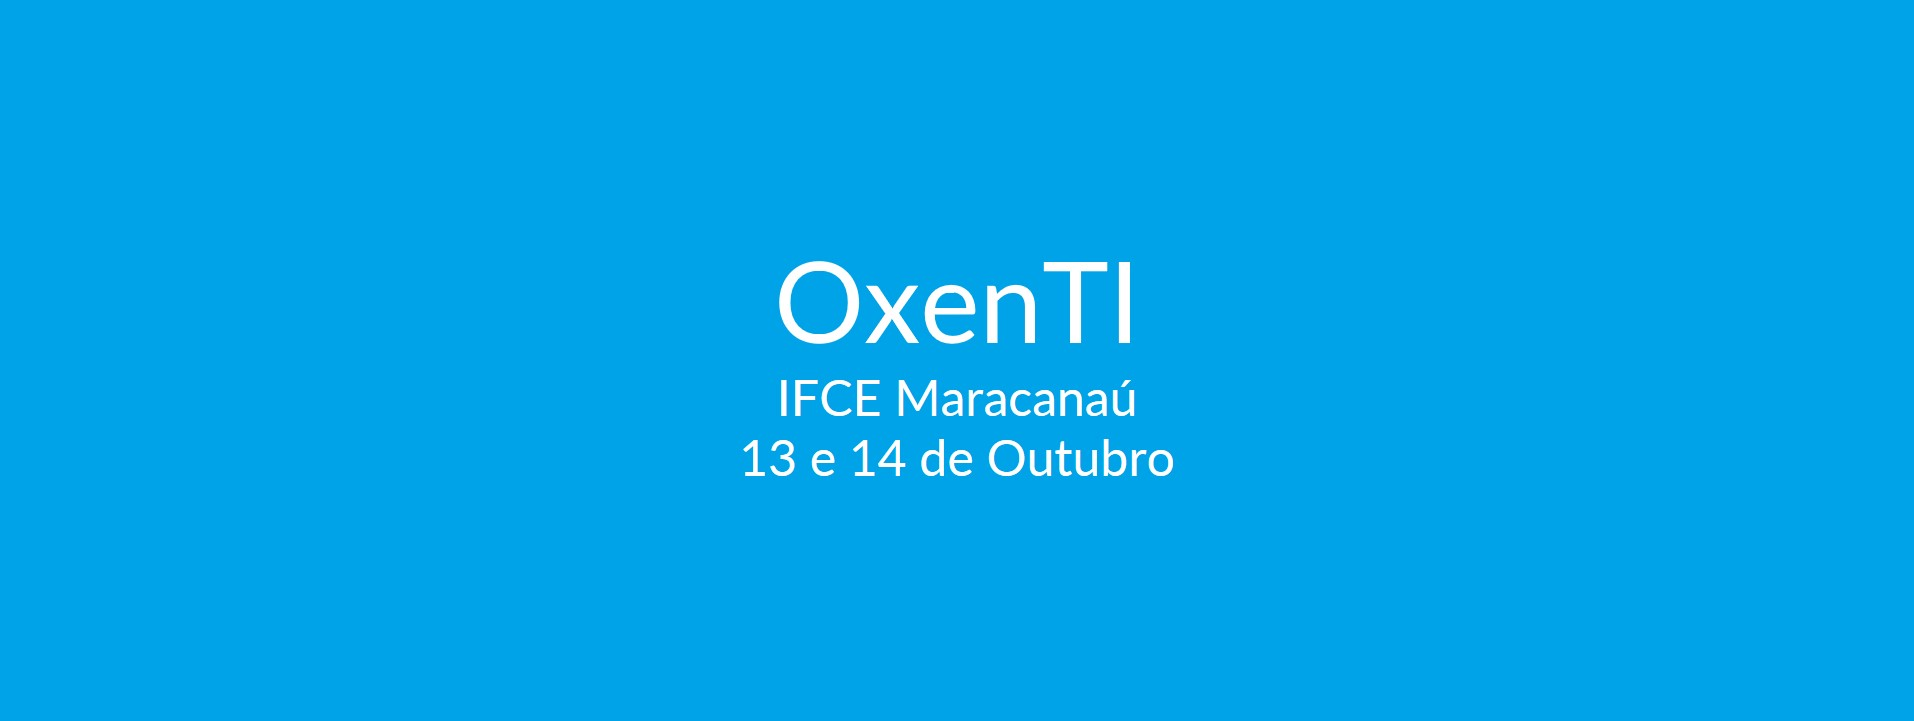
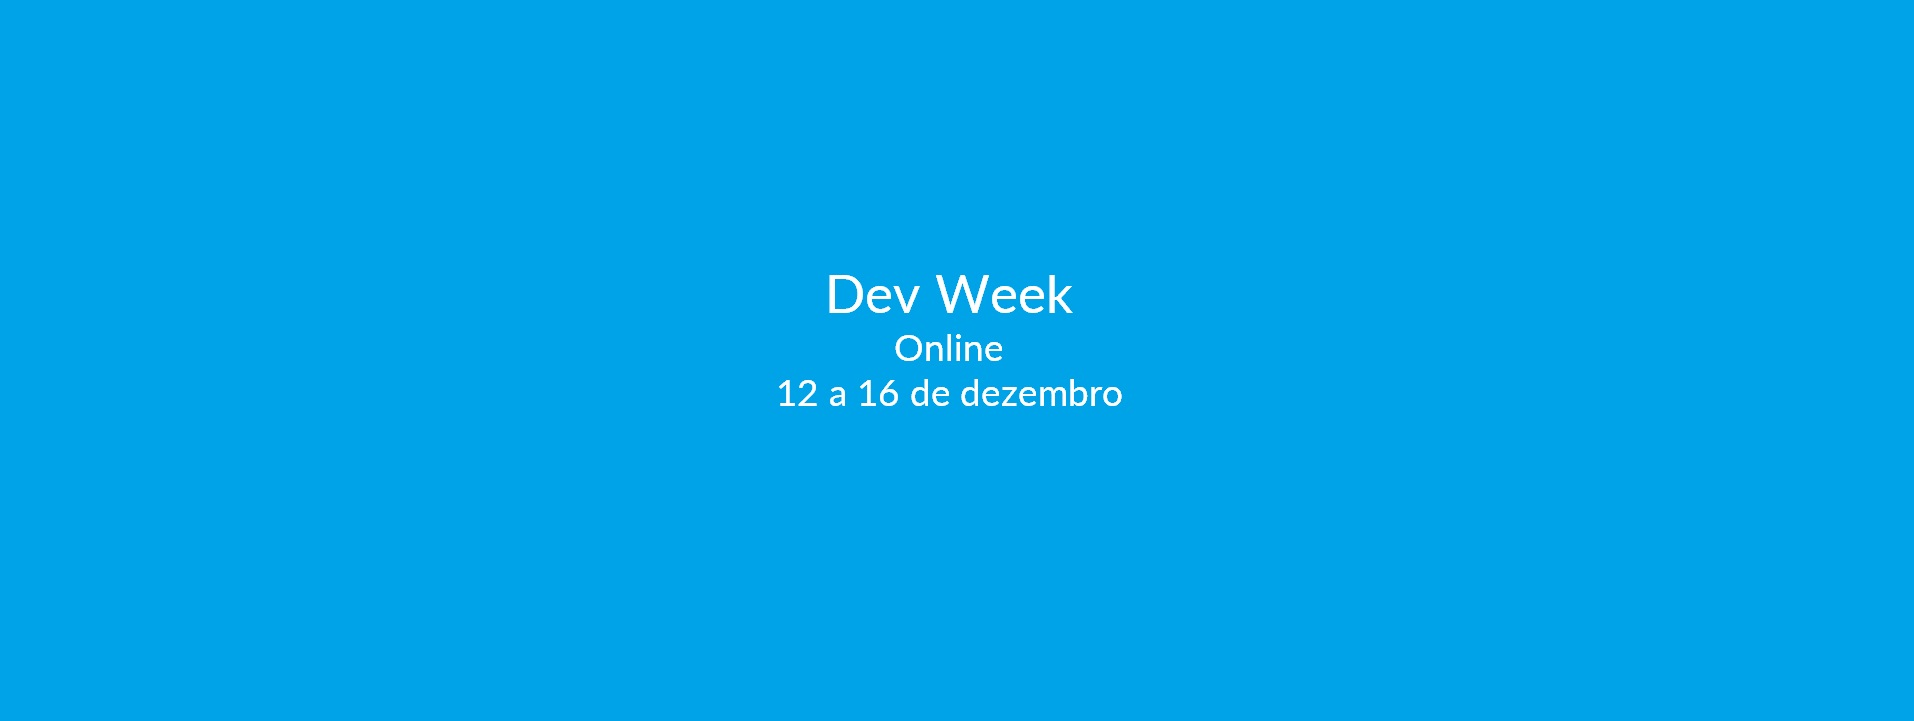
Primeiro commit

Changed region(s): [[0.4007, 0.3356, 0.6165, 0.5798], [0.3699, 0.6103, 0.6165, 0.6713]]

diff --git a/index.html b/index.html
@@ -5,25 +5,25 @@
     <meta http-equiv="Content-Type" content="text/html; charset=UTF-8" />
     <meta name="viewport" content="width=device-width, initial-scale=1, maximum-scale=1.0, user-scalable=no" />
     <meta name="theme-color" content="#039be5">
-    <title>OxenTI | 13 e 14 de Outubro</title>
+    <title>Dev Week | 12 e 16 de Dezembro</title>
 
     <meta name="copyright" content="© 2016 Canal .NET" />
     <meta name="author" content="Canal .NET - https://www.facebook.com/canaldotnet/" />
     <meta name="robots" content="index, follow" />
     <meta name="keywords" content="app development, mobile app development, xamarin, ios, android, cloud, nuvem, azure, microsoft, devops, infra, dev, open source, linux, mono, csharp, C#"
     />
-    <meta name="description" content="OxenTI | 13 e 14 de Outubro">
+    <meta name="description" content="Dev Week | 12 e 16 de Dezembro">
     <meta name="format-detection" content="telephone=no" />
 
     <!-- Favicon -->
     <link rel="shortcut icon" href="img/favicon.png" type="image/png" />
 
     <meta property="og:title" content="OxenTI | 13 e 14 de Outubro" />
-    <meta property="og:image" content="http://oxenti.azurewebsites.net/img/fundo.jpg">
+    <meta property="og:image" content="http://devweek.azurewebsites.net/img/fundo.jpg">
     <meta property="og:image:type" content="image/jpeg">
     <meta property="og:image:width" content="800"> 
     <meta property="og:image:height" content="600">
-    <meta property="og:description" content="OxenTI | 13 e 14 de Outubro" />
+    <meta property="og:description" content="Dev Week | 12 e 16 de Dezembro" />
 
 
     <!-- CSS  -->
@@ -53,15 +53,15 @@
                     <a href="# " id="logo-container "></a>
                     <ul class="right hide-on-med-and-down ">
                         <li><a href="#sobre">sobre</a></li>
-                        <li><a href="https://www.eventbrite.com.br/e/oxenti-ifce-maracanau-tickets-27894629588" target="_blank">inscrições</a></li>
+                        <li><a href="https://www.facebook.com/events/1138328316203524/" target="_blank">inscrições</a></li>
                         <li><a href="#agenda">agenda</a></li>
-                        <li><a href="#organizacao">organização</a></li>
+                        <li><a href="#palestrantes">palestrantes</a></li>
                     </ul>
                     <ul id="nav-mobile " class="side-nav ">
                             <li><a href="#sobre">sobre</a></li>
-                            <li><a href="https://www.eventbrite.com.br/e/oxenti-ifce-maracanau-tickets-27894629588" target="_blank">inscrições</a></li>
+                            <li><a href="https://www.facebook.com/events/1138328316203524/" target="_blank">inscrições</a></li>
                             <li><a href="#agenda">agenda</a></li>
-                            <li><a href="#organizacao">organização</a></li>
+                            <li><a href="#palestrantes">palestrantes</a></li>
                     </ul>
                     <a href="# " data-activates="nav-mobile " class="button-collapse "><i class="mdi-navigation-menu "></i></a>
                 </div>
@@ -71,16 +71,16 @@
     <!--Hero-->
     <div class="section no-pad-bot blue darken-2" id="index-banner">
         <div class="container center ">
-            <h2 class="text_h_top center">OxenTI <small>IFCE Maracanaú</small></h2>
+            <h2 class="text_h_top center">Dev Week <small>Online</small></h2>
             <h1 class="text_h center header cd-headline ">
-            <span>Um evento GRATUITO para aprender mais sobre tecnologia.</span> 
+            <span>Um evento GRATUITO e online sobre desenvolvimento de software.</span> 
         </h1>
-            <h2 class="text_h_sub center ">Dias 13 e 14 de Outubro / 2016</h2>
-            <a class="waves-effect waves-light btn-large green light-1 " href="https://www.eventbrite.com.br/e/oxenti-ifce-maracanau-tickets-27894629588" target="_blank ">quero participar!</a>
+            <h2 class="text_h_sub center ">De 12 e 16 de Dezembro / 2016. Das 20h às 23h.</h2>
+            <a class="waves-effect waves-light btn-large green light-1 " href="https://www.facebook.com/events/1138328316203524/" target="_blank ">quero assistir!</a>
         </div>
 
         <div class="fixed-action-btn" style="bottom: 45px; right: 24px;">
-          <a class="btn-floating btn-large green  tooltipped" data-position="left" data-delay="20" data-tooltip="Quero me inscrever!" href="https://www.eventbrite.com.br/e/oxenti-ifce-maracanau-tickets-27894629588" target="_blank">
+          <a class="btn-floating btn-large green  tooltipped" data-position="left" data-delay="20" data-tooltip="Quero me inscrever!" href="https://www.facebook.com/events/1138328316203524/" target="_blank">
             <i class="material-icons">done</i>
           </a>
         </div>
@@ -91,10 +91,10 @@
             <div class="row ">
                 <div class="col s12 ">
                     <h2 class="center header text_h2 "> 
-                    Você é estudante, profissional ou interessado em tecnologia da informação? Então junte-se a nós e venha aprender mais sobre desenvolvimento web, mobile, computação em nuvem e muito mais.
+                    Você é estudante, profissional ou interessado em desenvolvimento de software? Então junte-se a nós e venha aprender mais sobre desenvolvimento web, mobile, computação em nuvem e muito mais.
                     </h2>
                     <h2 class="center header text_h2 "> 
-                    O OxenTI é um evento <span class="span_h2 blue-text text-blue-2">gratuito</span>, organizado por estudantes e profissionais da área, com o apoio do IFCE Maracanaú.
+                    O Dev Week é um evento <span class="span_h2 blue-text text-blue-2">gratuito</span> e <span class="span_h2 blue-text text-blue-2">online</span>, promovido pelo <span class="span_h2 blue-text text-blue-2">Canal .NET</span> com o apoio de parceiros membros da comunidade técnica.
                     </h2> 
                 </div>
                 <div class="row ">
@@ -102,7 +102,7 @@
                         <div class="center promo promo-example ">
                             <i class="fa fa-users blue-text text-blue-2"></i>
                             <h5 class="promo-caption ">Público Alvo</h5>
-                            <p class="light center ">Estudantes, profissionais e demais interessados em tecnologia da informação.</p>
+                            <p class="light center ">Estudantes e profissionais interessados em desenvolvimento de software.</p>
                         </div>
                     </div>
                     <div class="col s12 m4 l4 ">
@@ -116,7 +116,7 @@
                         <div class="center promo promo-example ">
                             <i class="fa fa-map-marker blue-text text-blue-2"></i>
                             <h5 class="promo-caption ">Local</h5>
-                            <p class="light center ">IFCE Maracanaú.Parque Central. Distrito Industrial I. Maracanaú, CE. 61939140 </p>
+                            <p class="light center ">Totalmente online com transmissão pelo YouTube. </p>
                         </div>
                     </div>
                 </div>
@@ -126,240 +126,28 @@
         <div class="section scrollspy white " id="agenda">
             <div class="container ">
                 <h2 class="header text_b grey-text text-darken-4 "> Agenda</h2>
-                <div class="row">
-                    <div class="col s12 m12">
-                        <h4>quinta-feira / 13 de outubro de 2016</h4>
-                        <ul class="tabs">
-                            <li class="tab col s3"><a class="active" href="#lab1_13">Laboratório 1</a></li>
-                            <li class="tab col s3"><a href="#midias_13">Mídias</a></li>
-                            <li class="tab col s3"><a href="#sala1_13">Sala 1</a></li>
-                            <li class="tab col s3"><a href="#sala2_13">Sala 2</a></li>
-                        </ul>
-                        <div id="lab1_13" class="col s12">
-                            <ul class="collection">
-                                <li class="collection-item avatar ">
-                                    <img src="img/palestrantes/avatar.png" class="circle circle-avatar" />
-                                    <span class="title blue-text"><b>Workshop Criando uma API com Node.js</b></span>
-                                    <p>14:00<br> Cícero Viana, Ian Ramos e Manoel Freitas
-                                    </p>
-                                </li>
-                                <li class="collection-item avatar ">
-                                    <img src="img/palestrantes/avatar.png" class="circle circle-avatar" />
-                                    <span class="title blue-text"><b>Workshop Consumindo uma API Node.js a partir de um app híbrido</b></span>
-                                    <p>15:00<br> Cícero Viana, Ian Ramos e Manoel Freitas
-                                    </p>
-                                </li>
-                                <li class="collection-item avatar ">
-                                    <img src="img/palestrantes/avatar.png" class="circle circle-avatar" />
-                                    <span class="title blue-text"><b>Consumindo uma API Node.js a partir de uma aplicação web</b></span>
-                                    <p>16:00<br> Cícero Viana, Ian Ramos e Manoel Freitas
-                                    </p>
-                                </li>
-                            </ul>
-                        </div>
-                        <div id="midias_13" class="col s12">
-                            <ul class="collection">
-                                <li class="collection-item avatar ">
-                                    <img src="img/palestrantes/henrique.jpg" class="circle circle-avatar" />
-                                    <span class="title blue-text"><b>Workshop Criando seu primeiro jogo no Scratch</b></span>
-                                    <p>14:00<br> Henrique Cid
-                                    </p>
-                                </li>
-                            </ul>
-                        </div>
-                        <div id="sala1_13" class="col s12">
-                            <ul class="collection">
-                                <li class="collection-item avatar ">
-                                    <img src="img/palestrantes/yan.jpg" class="circle circle-avatar" />
-                                    <span class="title blue-text"><b>Bash do Ubuntu no Windows: Linha de comandos e programas Linux no Windows</b></span>
-                                    <p>13:00<br> Yan Paulo
-                                    </p>
-                                </li>
-                                <li class="collection-item avatar ">
-                                    <img src="img/palestrantes/yan.jpg" class="circle circle-avatar" />
-                                    <span class="title blue-text"><b>Desenvolvimento mobile com Xamarin (Android, iOS e Windows)</b></span>
-                                    <p>14:00<br> Yan Paulo
-                                    </p>
-                                </li>
-                                <li class="collection-item avatar ">
-                                    <img src="img/palestrantes/yan.jpg" class="circle circle-avatar" />
-                                    <span class="title blue-text"><b>Demonstrações de desenvolvimento mobile com Xamarin</b></span>
-                                    <p>15:00<br> Yan Paulo
-                                    </p>
-                                </li>
-                            </ul>
-                        </div>
-                        <div id="sala2_13" class="col s12">
-                            <ul class="collection">
-                                <li class="collection-item avatar ">
-                                    <img src="img/palestrantes/camila.jpg" class="circle circle-avatar" />
-                                    <span class="title blue-text"><b>Introdução ao Matlab</b></span>
-                                    <p>13:00<br> Camila Rodrigues
-                                    </p>
-                                </li>
-                            </ul>
-                        </div>
-                    </div>                    
-                </div>
-                <div class="row">
-                    <div class="col s12 m12">
-                        <h4>sexta-feira / 14 de outubro de 2016</h4>
-                        <ul class="tabs">
-                            <li class="tab col s3"><a class="active" href="#lab1_14">Laboratório 1</a></li>
-                            <li class="tab col s3"><a href="#sala1_14">Sala 1</a></li>
-                            <li class="tab col s3"><a href="#sala2_14">Sala 2</a></li>
-                        </ul>
-                        <div id="lab1_14" class="col s12">
-                            <ul class="collection">
-                                <li class="collection-item avatar ">
-                                    <img src="img/palestrantes/yan.jpg" class="circle circle-avatar" />
-                                    <span class="title blue-text"><b>Workshop Introdução à linguagem C#</b></span>
-                                    <p>14:00<br> Yan Paulo
-                                    </p>
-                                </li>
-                                <li class="collection-item avatar ">
-                                    <img src="img/palestrantes/yan.jpg" class="circle circle-avatar" />
-                                    <span class="title blue-text"><b>Workshop Introdução à linguagem C#</b></span>
-                                    <p>15:00<br> Yan Paulo
-                                    </p>
-                                </li>
-                                <li class="collection-item avatar ">
-                                    <img src="img/palestrantes/yan.jpg" class="circle circle-avatar" />
-                                    <span class="title blue-text"><b>Desenvolvimento web e web services com ASP.NET e C#</b></span>
-                                    <p>16:00<br> Yan Paulo
-                                    </p>
-                                </li>
-                            </ul>
-                        </div>
-                        <div id="sala1_14" class="col s12">
-                            <ul class="collection">
-                                <li class="collection-item avatar ">
-                                    <img src="img/palestrantes/nayron.jpg" class="circle circle-avatar" />
-                                    <span class="title blue-text"><b>Desvendando o desenvolvimento mobile</b></span>
-                                    <p>13:00<br> Nayron Barreto
-                                    </p>
-                                </li>
-                                <li class="collection-item avatar ">
-                                    <img src="img/palestrantes/nayron.jpg" class="circle circle-avatar" />
-                                    <span class="title blue-text"><b>Desenvolvendo games mobile com foco em Android</b></span>
-                                    <p>14:00<br> Nayron Barreto
-                                    </p>
-                                </li>
-                                <li class="collection-item avatar ">
-                                    <img src="img/palestrantes/elim.jpg" class="circle circle-avatar" />
-                                    <span class="title blue-text"><b>Utilizando Linux e Windows no mesmo computador, sem estresse</b></span>
-                                    <p>15:00<br> Elim Jorge
-                                    </p>
-                                </li>
-                                <li class="collection-item avatar ">
-                                    <img src="img/palestrantes/nayron.jpg" class="circle circle-avatar" />
-                                    <span class="title blue-text"><b>Java pra que te quero</b></span>
-                                    <p>16:00<br> Nayron Barreto
-                                    </p>
-                                </li>
-                            </ul>
-                        </div>
-                        <div id="sala2_14" class="col s12">
-                            <ul class="collection">
-                                <li class="collection-item avatar ">
-                                    <img src="img/palestrantes/female-avatar.png" class="circle circle-avatar" />
-                                    <span class="title blue-text"><b>Desafios enfrentados por mulheres na área de TI</b></span>
-                                    <p>16:00<br> Camila Rodrigues e Elizabeth Lucas
-                                    </p>
-                                </li>
-                            </ul>
-                        </div>
-                    </div>
-                </div>
+                <p>Estamos preparando uma super agenda para esse evento. Em breve divulgaremos.</p>
             </div>
         </div>   
-        <div class="section scrollspy white " id="organizacao">
+        <div class="section scrollspy white " id="palestrantes">
             <div class="container ">
-                <h2 class="header text_b grey-text text-darken-4 "> Organizadores</h2>
-                <div class="row ">
-                    <div class="col s12 m3 ">
-                        <div class="card card-avatar ">
-                            <div class="waves-effect waves-block waves-light ">
-                                <img class="activator " src="img/organizadores/yan.jpg ">
-                            </div>
-                            <div class="card-content ">
-                                <span class="card-title activator grey-text text-darken-4 ">Yan <br> Paulo<br/>
-                                    <small class="blue-text text-darken-2">Desenvolvedor</small>
-                                </span>
-                                <p>
-                                    <a class="black-text " href="https://www.facebook.com/yan.paulo.33" target="_blank ">
-                                        <i class="fa fa-facebook-square "></i>
-                                    </a>
-                                    <a class="black-text " href="https://br.linkedin.com/in/yan-paulo-13a80253" target="_blank ">
-                                        <i class="fa fa-linkedin-square "></i>
-                                    </a>
-                                </p>
-                            </div>
-                        </div>
-                    </div>
-                    <div class="col s12 m3 ">
-                        <div class="card card-avatar ">
-                            <div class="waves-effect waves-block waves-light ">
-                                <img class="activator " src="img/organizadores/jefte.jpg ">
-                            </div>
-                            <div class="card-content ">
-                                <span class="card-title activator grey-text text-darken-4 ">Jefte <br>Santos<br/>
-                                    <small class="blue-text text-darken-2">Desenvolvedor</small>
-                                </span>
-                                <p>
-                                    <a class="black-text " href="https://www.facebook.com/jeftesantos" target="_blank ">
-                                        <i class="fa fa-facebook-square "></i>
-                                    </a>
-                                    <a class="black-text " href="https://br.linkedin.com/in/jéfte-santos-54b44455" target="_blank ">
-                                        <i class="fa fa-linkedin-square "></i>
-                                    </a>
-                                </p>
-                            </div>
-                        </div>
-                    </div>
-                    <div class="col s12 m3 ">
-                        <div class="card card-avatar ">
-                            <div class="waves-effect waves-block waves-light ">
-                                <img class="activator " src="img/organizadores/joel.png ">
-                            </div>
-                            <div class="card-content ">
-                                <span class="card-title activator grey-text text-darken-4 ">Joel <br>Rodrigues<br/>
-                                    <small class="blue-text text-darken-2">Microsoft MVP</small>
-                                </span>
-                                <p>
-                                    <a class="black-text " href="https://github.com/joelrlneto " target="_blank ">
-                                        <i class="fa fa-github-alt"></i>
-                                    </a>
-                                    <a class="black-text " href="https://twitter.com/joelrlneto " target="_blank ">
-                                        <i class="fa fa-twitter-square"></i>
-                                    </a>
-                                    <a class="black-text " href="https://www.facebook.com/joelrlneto " target="_blank ">
-                                        <i class="fa fa-facebook-square"></i>
-                                    </a>
-                                    <a class="black-text " href="https://br.linkedin.com/in/joelrlneto" target="_blank ">
-                                        <i class="fa fa-linkedin-square"></i>
-                                    </a>
-                                </p>
-                            </div>
-                        </div>
-                    </div>
+                <h2 class="header text_b grey-text text-darken-4 "> Palestrantes</h2>
+                <p>O time de palestrantes é composto por grandes nomes da comunidade técnica. Logo divulgaremos aqui.</p>
+            </div>
+        </div>
+        <div class="section scrollspy grey lighten-5 " id="apoio">
+            <div class="container ">
+                <h2 class="header text_b grey-text text-darken-4 "> Apoio</h2>
+                <div class="row">
                     <div class="col s12 m3">
-                        <div class="card card-avatar ">
+                        <div class="card center">
                             <div class="waves-effect waves-block waves-light ">
-                                <img class="activator " src="img/organizadores/camila.jpg ">
+                                <img class="activator " src="img/apoio/balta.png ">
                             </div>
                             <div class="card-content ">
-                                <span class="card-title activator grey-text text-darken-4 ">Camila <br>Rodrigues<br/>
-                                    <small class="blue-text text-darken-2">Pesquisadora</small>
+                                <span class="card-title activator grey-text text-darken-4 ">
+                                    <a class="blue-text text-darken-2" href="http://balta.io/" target="_blank" title="André Baltieri Treinamentos">balta.io</a>
                                 </span>
-                                <p>
-                                    <a class="black-text " href="https://www.facebook.com/ " target="_blank ">
-                                        <i class="fa fa-facebook-square"></i>
-                                    </a>
-                                    <a class="black-text " href="https://br.linkedin.com/in/" target="_blank ">
-                                        <i class="fa fa-linkedin-square"></i>
-                                    </a>
-                                </p>
                             </div>
                         </div>
                     </div>
@@ -371,7 +159,7 @@
         <footer id="contact " class="page-footer blue darken-2 scrollspy ">
             <div class="footer-copyright blue darken-2 ">
                 <div class="container ">
-                    OxenTI. IFCE Maracanaú. 2016.
+                    Dev Week. Canal .NET. 2016.
                 </div>
             </div>
         </footer>
